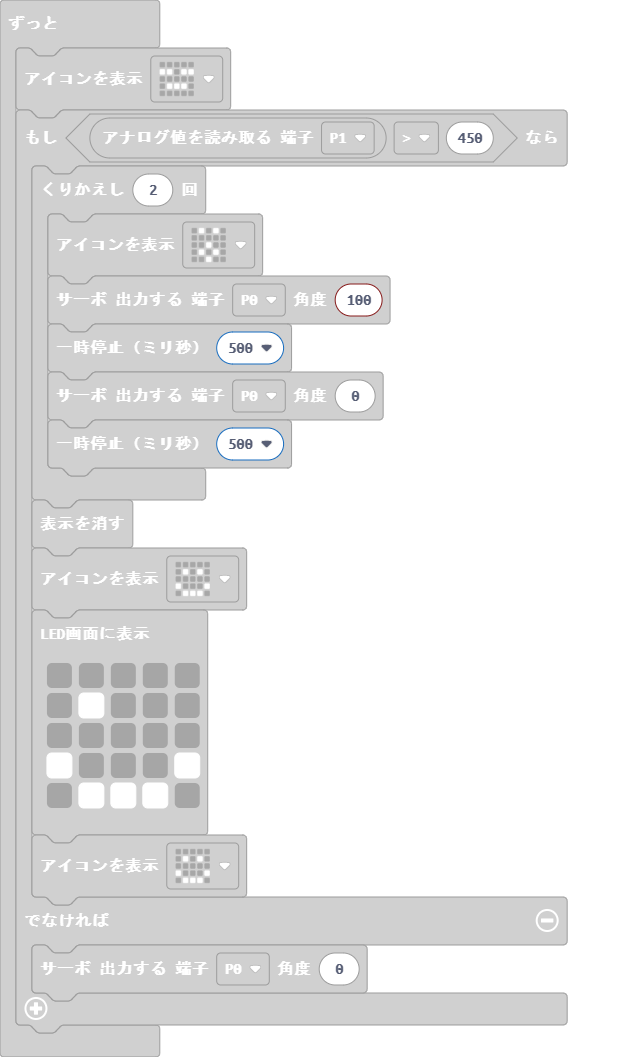
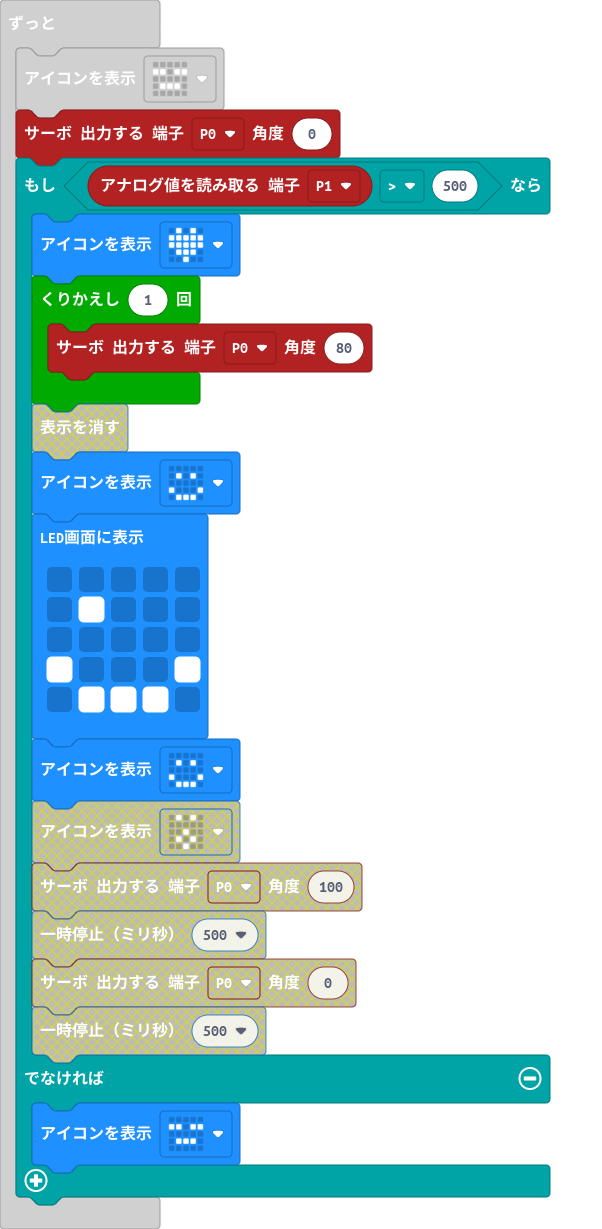
更新 main.blocks, main.ts

diff --git a/main.ts b/main.ts
@@ -1,14 +1,11 @@
 basic.forever(function () {
     basic.showIcon(IconNames.Asleep)
-    if (pins.analogReadPin(AnalogPin.P1) > 450) {
-        for (let index = 0; index < 2; index++) {
-            basic.showIcon(IconNames.Surprised)
-            pins.servoWritePin(AnalogPin.P0, 100)
-            basic.pause(500)
-            pins.servoWritePin(AnalogPin.P0, 0)
-            basic.pause(500)
+    pins.servoWritePin(AnalogPin.P0, 0)
+    if (pins.analogReadPin(AnalogPin.P1) > 500) {
+        basic.showIcon(IconNames.Heart)
+        for (let index = 0; index < 1; index++) {
+            pins.servoWritePin(AnalogPin.P0, 80)
         }
-        basic.clearScreen()
         basic.showIcon(IconNames.Happy)
         basic.showLeds(`
             . . . . .
@@ -19,6 +16,6 @@ basic.forever(function () {
             `)
         basic.showIcon(IconNames.Happy)
     } else {
-        pins.servoWritePin(AnalogPin.P0, 0)
+        basic.showIcon(IconNames.Asleep)
     }
 })
